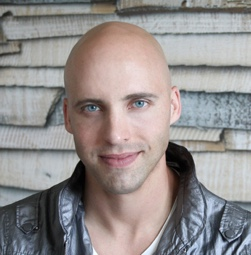
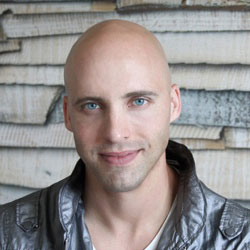
Add gulp, fix team image issue and add coupon button

diff --git a/css/main.min.css b/css/main.min.css
@@ -1,1 +1,1 @@
-body{color:#000}body,h1,h2,h3,h4,h5,h6{font-family:Open Sans,sans-serif}h1,h2,h3,h4,h5,h6{line-height:1.2}.hero{background:#fe9e04}.hero .row{max-width:100%;width:100%}.hero .row .columns{padding:0}.hero .hero-image{height:100%;background:url(../img/hero.jpg) no-repeat;background-size:cover;position:relative;z-index:2}@media (max-width:640px){.hero .hero-image{background-size:100%}}.hero .hero-content{margin-top:20px;margin-bottom:100px;padding:40px}@media (max-width:640px){.hero .hero-content{margin-bottom:0;margin-top:0;padding:20px 40px}}.hero .hero-content h1{color:#fff;font-weight:800;font-size:48px}@media (max-width:640px){.hero .hero-content h1{font-size:40px}}.hero .hero-content h3{color:#000;font-weight:800}.program{background:#63c6ff;padding:50px 20px;position:relative;z-index:1}@media (min-width:1024px){.program:after{content:url(../img/angle-orange.png);position:absolute;top:-50px;right:0}}.program h2{color:#fff;font-weight:800;margin-bottom:30px}.students{background:#fe9e04;padding:50px 20px;position:relative}@media (min-width:1024px){.students:after{content:url(../img/angle-blue.png);position:absolute;top:-50px;left:0}}.students h2{color:#fff;font-weight:800;margin-bottom:30px}.video iframe{margin:0;padding:0}@media (min-width:640px){.video iframe{min-height:720px}}@media (max-width:640px){.video iframe{min-height:400px}}.together{margin-top:-10px;background:#63c6ff;padding:50px 20px;position:relative;z-index:1}@media (min-width:1024px){.together:after{content:url(../img/angle-orange.png);position:absolute;top:-50px;right:0}}.together h2{color:#fff;font-weight:800;margin-bottom:20px;font-size:64px}.together p{font-size:18px}.together .together-box{border:6px solid #fff;background:#fe9e04;padding:20px;text-align:center;color:#fff}.together .together-box h3{font-weight:800}.together .together-box span{font-weight:800;font-size:28px;margin-bottom:10px;display:block}.together .together-box p{font-weight:800}.team{padding:50px 20px}.team .large-10:nth-child(even){clear:both}.team .team-picture{float:left;margin-right:20px;margin-bottom:50px}@media (max-width:640px){.team .team-picture{float:none;display:block;margin:20px auto;text-align:center}}.team .team-description{position:relative}.team .team-description img{height:20px;position:relative;left:-15px}@media (max-width:640px){.team .team-description img{display:none}}.team .team-description p{font-size:18px}@media (max-width:640px){.team .team-description p{text-align:center}}.team .team-description h3{font-weight:800;font-size:18px}@media (max-width:640px){.team .team-description h3{text-align:center}}
+body{color:#000}body,h1,h2,h3,h4,h5,h6{font-family:Open Sans,sans-serif}h1,h2,h3,h4,h5,h6{line-height:1.2}.hero{background:#fe9e04}.hero .row{max-width:100%;width:100%}.hero .row .columns{padding:0}.hero .hero-image{height:100%;background:url(../img/hero.jpg) no-repeat;background-size:cover;position:relative;z-index:2}@media (max-width:640px){.hero .hero-image{background-size:100%}}.hero .hero-content{margin-top:20px;margin-bottom:100px;padding:40px}@media (max-width:640px){.hero .hero-content{margin-bottom:0;margin-top:0;padding:20px 40px}}.hero .hero-content h1{color:#fff;font-weight:800;font-size:48px}@media (max-width:640px){.hero .hero-content h1{font-size:40px}}.hero .hero-content h3{color:#000;font-weight:800}.hero .hero-content h3 a{color:#000}.program{background:#63c6ff;padding:50px 20px;position:relative;z-index:1}@media (min-width:1024px){.program:after{content:url(../img/angle-orange.png);position:absolute;top:-50px;right:0}}.program h2{color:#fff;font-weight:800;margin-bottom:30px}.students{background:#fe9e04;padding:50px 20px;position:relative}@media (min-width:1024px){.students:after{content:url(../img/angle-blue.png);position:absolute;top:-50px;left:0}}.students h2{color:#fff;font-weight:800;margin-bottom:30px}.video iframe{margin:0;padding:0}@media (min-width:640px){.video iframe{min-height:720px}}@media (max-width:640px){.video iframe{min-height:400px}}.together{margin-top:-10px;background:#63c6ff;padding:50px 20px;position:relative;z-index:1}@media (min-width:1024px){.together:after{content:url(../img/angle-orange.png);position:absolute;top:-50px;right:0}}.together h2{color:#fff;font-weight:800;margin-bottom:20px;font-size:64px}.together p{font-size:18px}.together .coupon-box{border:6px solid #fff;background:#fe9e04;padding:20px;text-align:center;color:#fff}.together .coupon-box h3{font-weight:800}.together .coupon-box button{font-weight:800;font-size:28px;margin-bottom:10px;display:inline-block}.together .coupon-box p{font-weight:800}.team{padding:50px 20px}.team .large-10:nth-child(even){clear:both}.team .team-picture{float:left;margin-right:20px;margin-bottom:50px;max-width:250px}@media (max-width:640px){.team .team-picture{float:none;display:block;margin:20px auto;text-align:center}}.team .team-description{position:relative}.team .team-description img{height:20px;position:relative;left:0}@media (max-width:640px){.team .team-description img{display:none}}.team .team-description p{font-size:18px}@media (max-width:640px){.team .team-description p{text-align:center}}.team .team-description h3{font-weight:800;font-size:18px}@media (max-width:640px){.team .team-description h3{text-align:center}}

diff --git a/index.html b/index.html
@@ -20,7 +20,7 @@
       <div class="large-5 columns">
         <div class="hero-content">
           <h1>A MUSIC TOOL WORTHY OF THE NEXT GENERATION</h1>
-          <h3><img src="img/hero-angle.jpg" alt=""> THE BEATBUDDY EFFECT</h3>
+          <h3><a href="#video"><img src="img/hero-angle.jpg" alt=""> THE BEATBUDDY EFFECT</a></h3>
         </div>
       </div>
       <div class="large-7 columns hero-image">
@@ -59,16 +59,16 @@
     </div>
   </div>
 
-  <div class="video">
+  <div class="video" id="video">
     <iframe width="100%" src="https://www.youtube.com/embed/KnnwHwv21wk?showinfo=0" frameborder="0" allowfullscreen></iframe>
   </div>
 
   <div class="together">
     <div class="row">
       <div class="large-4 columns">
-        <div class="together-box">
+        <div class="coupon-box" id="coupon-box">
           <h3>USE THE CODE</h3>
-          <span>GuitarsOverGuns</span>
+          <button>GuitarsOverGuns</button>
           <p>in your purchase to donate percentage of your purchase to the non-profit. </p>
         </div>
       </div>
@@ -86,10 +86,9 @@
           <img src="img/david.jpg" alt="">
         </div>
         <div class="team-description">
-          <img src="img/angle-blue2.png" alt="">
           <p>“Guitars Over Guns is working with kids who are just starting out on their musical journey and we are really excited to introduce the BeatBuddy to their students. </p>
           <p>We are incredibly proud that our invention will impact the lives of young people by making them better musicians and inspiring them to continue pursuing their musical passion.” </p>
-          <h3>David Packouz, CEO of Singular Sound</h3>
+          <h3><img src="img/angle-blue2.png" alt=""> David Packouz, CEO of Singular Sound</h3>
         </div>
       </div>
       <div class="large-10 large-push-1">
@@ -97,10 +96,9 @@
           <img src="img/chad.jpg" alt="">
         </div>
         <div class="team-description">
-          <img src="img/angle-orange2.png" alt="">
           <p>“We are thrilled about working with the BeatBuddy, as the product excites our students about the music making process and inspires them to learn on their own. </p>
           <p>What truly makes this partnership even more special, is seeing the passion that the Singular Sound team has for elevating our students' love for the arts."   </p>
-          <h3>Chad Bernstein, Guitars Over Guns Co-Founder & CEO</h3>
+          <h3><img src="img/angle-orange2.png" alt=""> Chad Bernstein, Guitars Over Guns Co-Founder & CEO</h3>
         </div>
       </div>
     </div>

diff --git a/css/main.css b/css/main.css
@@ -41,6 +41,8 @@ h1, h2, h3, h4, h5, h6 {
     .hero .hero-content h3 {
       color: #000;
       font-weight: 800; }
+      .hero .hero-content h3 a {
+        color: #000; }
 
 .program {
   background: #63C6FF;
@@ -102,20 +104,20 @@ h1, h2, h3, h4, h5, h6 {
     font-size: 64px; }
   .together p {
     font-size: 18px; }
-  .together .together-box {
+  .together .coupon-box {
     border: 6px solid #fff;
     background: #FE9E04;
     padding: 20px;
     text-align: center;
     color: #fff; }
-    .together .together-box h3 {
+    .together .coupon-box h3 {
       font-weight: 800; }
-    .together .together-box span {
+    .together .coupon-box button {
       font-weight: 800;
       font-size: 28px;
       margin-bottom: 10px;
-      display: block; }
-    .together .together-box p {
+      display: inline-block; }
+    .together .coupon-box p {
       font-weight: 800; }
 
 .team {
@@ -125,7 +127,8 @@ h1, h2, h3, h4, h5, h6 {
   .team .team-picture {
     float: left;
     margin-right: 20px;
-    margin-bottom: 50px; }
+    margin-bottom: 50px;
+    max-width: 250px; }
     @media (max-width: 640px) {
       .team .team-picture {
         float: none;
@@ -137,7 +140,7 @@ h1, h2, h3, h4, h5, h6 {
     .team .team-description img {
       height: 20px;
       position: relative;
-      left: -15px; }
+      left: 0px; }
       @media (max-width: 640px) {
         .team .team-description img {
           display: none; } }

diff --git a/gulpfile.js b/gulpfile.js
@@ -1,0 +1,49 @@
+
+// Load plugins
+var gulp = require('gulp'),
+    sass = require('gulp-sass');
+    autoprefixer = require('gulp-autoprefixer'),
+    cssnano= require('gulp-cssnano'),
+    rename = require('gulp-rename'),
+    concat = require('gulp-concat'),
+    notify = require('gulp-notify'),
+    del = require('del'),
+    plumber = require('gulp-plumber'),
+    browserSync = require('browser-sync');
+
+
+// Styles
+gulp.task('styles', function() {
+  return gulp.src('scss/main.scss', { style: 'expanded' })
+    .pipe(sass().on('error', sass.logError))
+    .pipe(plumber())
+    .pipe(autoprefixer({browsers: ['last 2 version']}))
+    .pipe(gulp.dest('css/'))
+    .pipe(rename({ suffix: '.min' }))
+    .pipe(cssnano())
+    .pipe(gulp.dest('css/'))
+    .pipe(notify({ message: 'Styles task complete' }));
+});
+
+// Static server
+gulp.task('browser-sync', function() {
+    browserSync.init(["css/*.css", "js/*.js", '*.html'], {
+        server: {
+            baseDir: "./"
+        }
+    });
+});
+
+// Default task
+gulp.task('default', ['browser-sync'], function() {
+    gulp.start('styles');
+});
+
+// Watch
+gulp.task('watch', ['browser-sync'], function() {
+
+  gulp.watch('scss/*.scss', ['styles']);
+
+  gulp.watch('./*.html');
+
+});

diff --git a/scss/main.scss b/scss/main.scss
@@ -77,6 +77,9 @@ h1, h2, h3, h4, h5, h6 {
 		h3 {
 			color: $black;
 			font-weight: 800;
+			a {
+				color: $black;
+			}
 		}
 	}
 }
@@ -156,7 +159,7 @@ h1, h2, h3, h4, h5, h6 {
 	p {
 		font-size: 18px;
 	}
-	.together-box {
+	.coupon-box {
 		border: 6px solid $white;
 		background: $orange;
 		padding: 20px;
@@ -165,11 +168,11 @@ h1, h2, h3, h4, h5, h6 {
 		h3 {
 			font-weight: 800;
 		}
-		span {
+		button {
 			font-weight: 800;
 			font-size: 28px;
 			margin-bottom: 10px;
-			display: block;
+			display: inline-block;
 		}
 		p {
 			font-weight: 800;
@@ -188,6 +191,7 @@ h1, h2, h3, h4, h5, h6 {
 		float: left;
 		margin-right: 20px;
 		margin-bottom: 50px;
+		max-width: 250px;
 		@media (max-width: $sm) {
 			float: none;
 			display: block;
@@ -200,7 +204,7 @@ h1, h2, h3, h4, h5, h6 {
 		img {
 			height: 20px;
 			position: relative;
-			left: -15px;
+			left: 0px;
 			@media (max-width: $sm) {
 				display: none;
 			}
